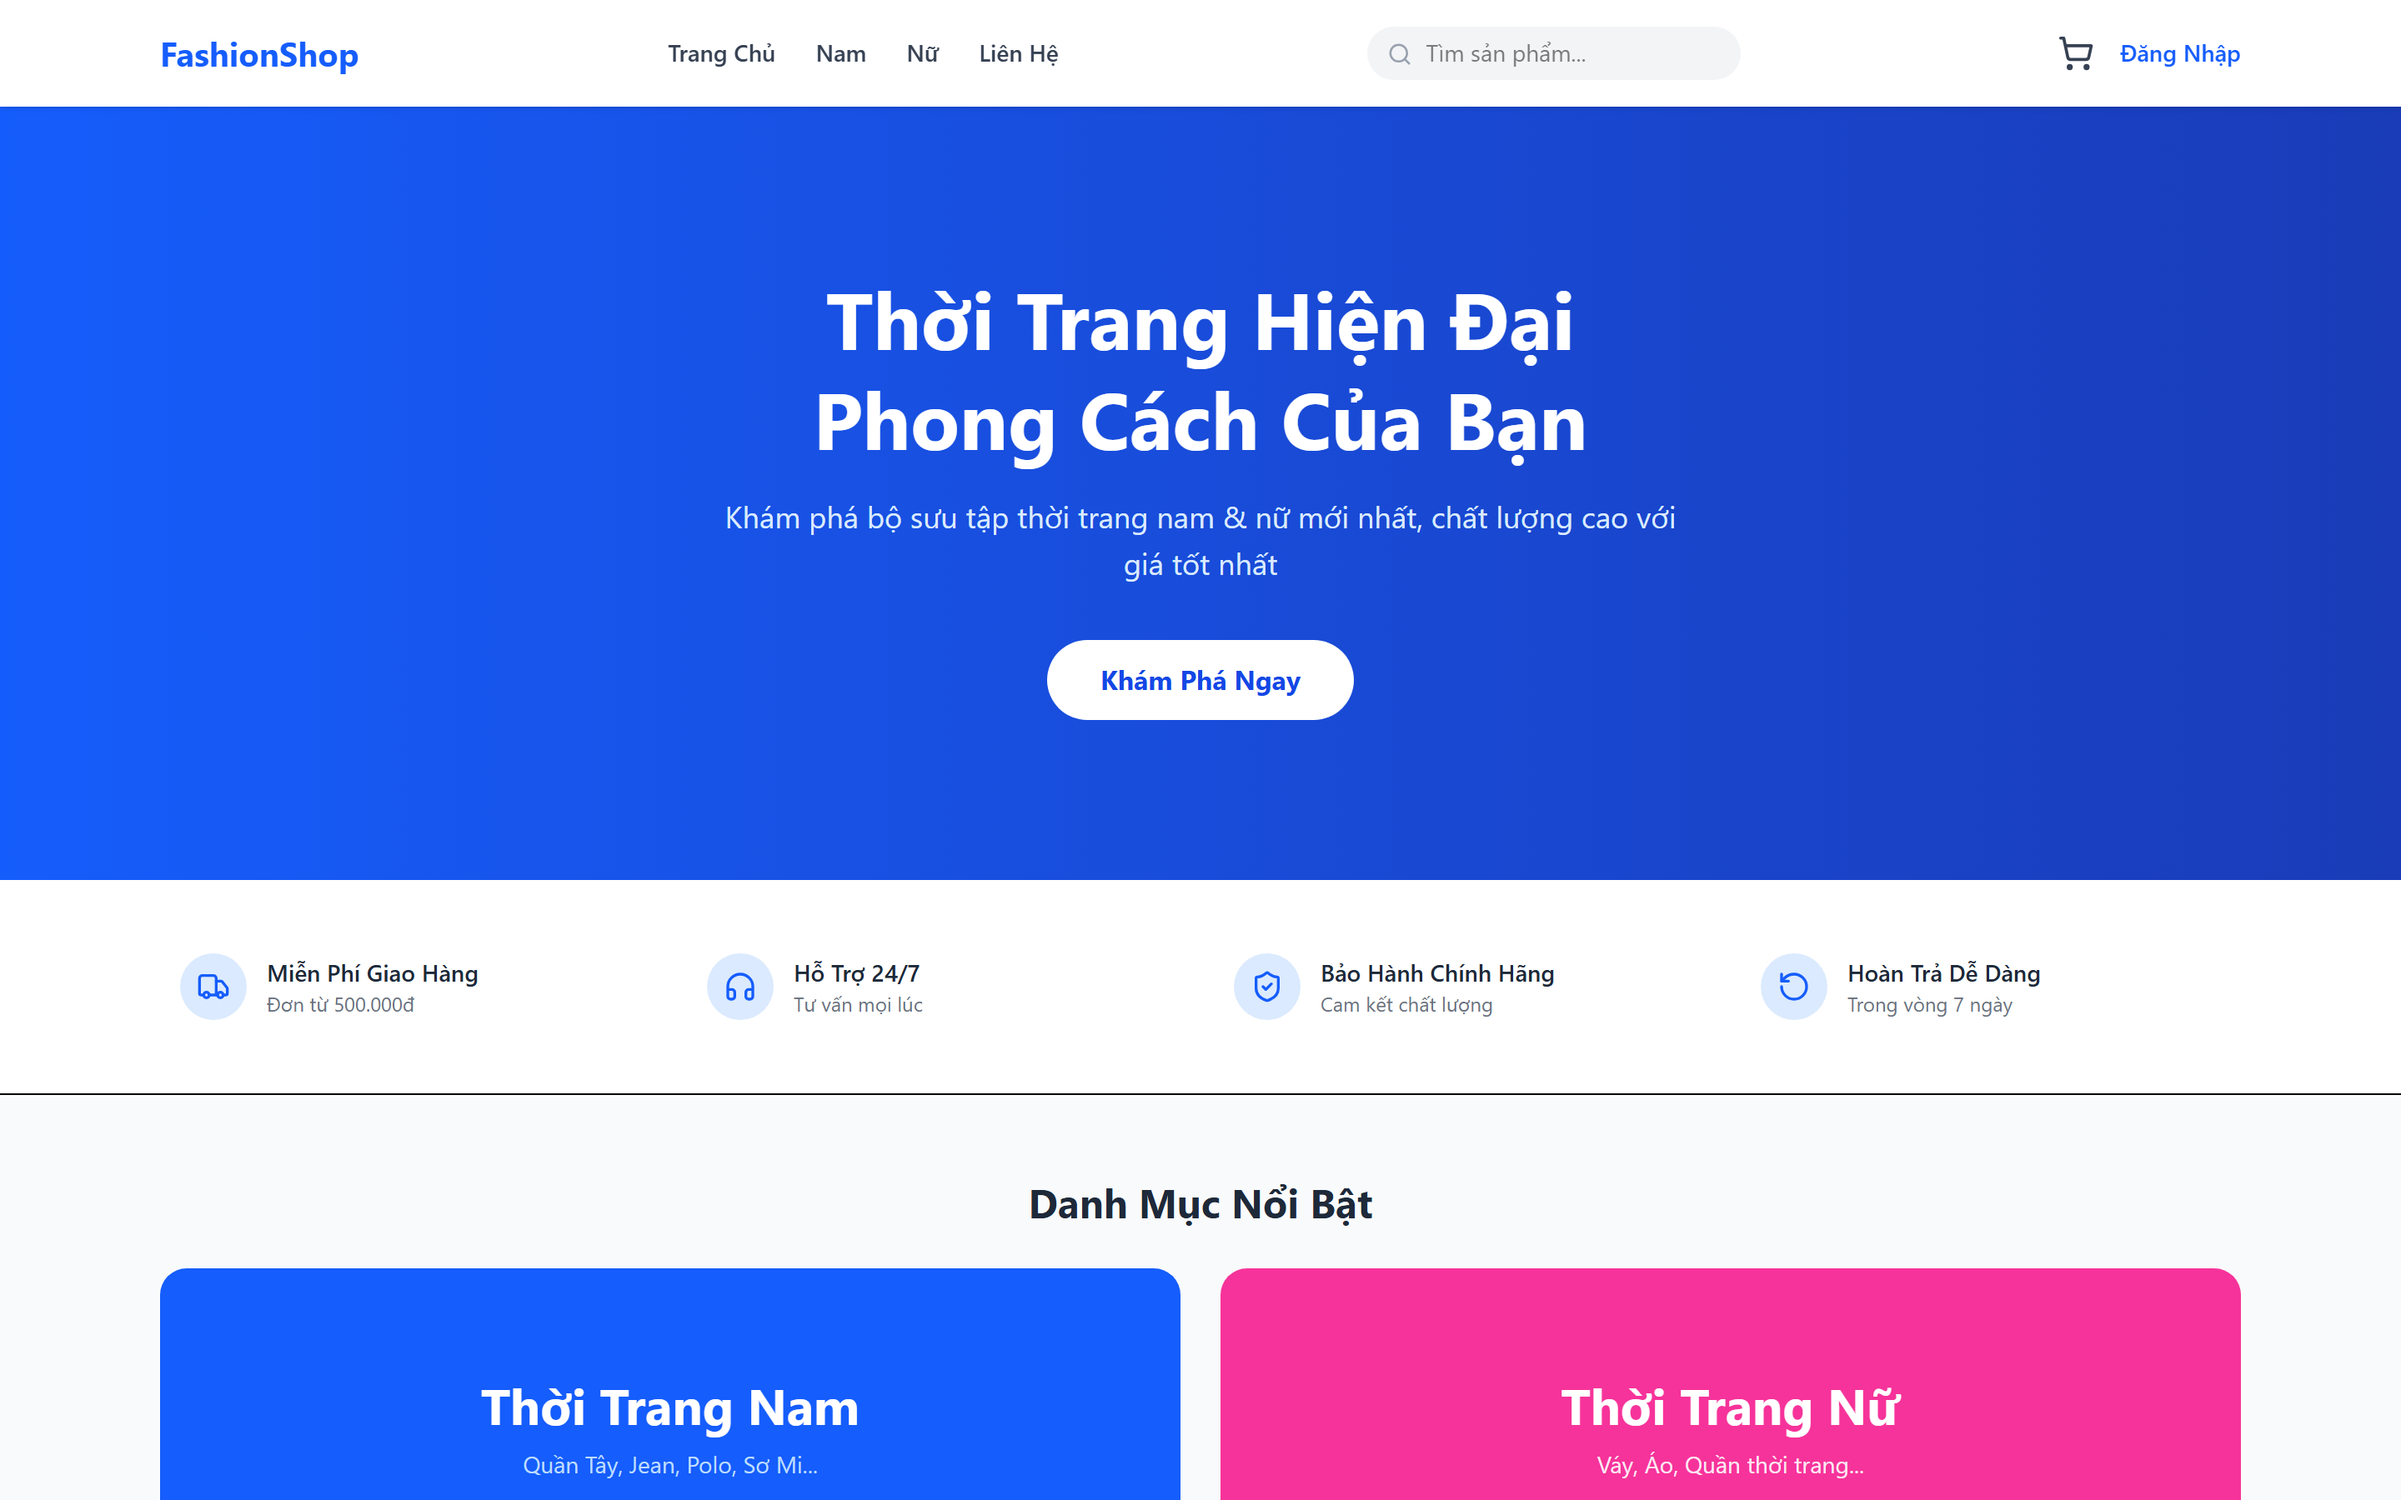
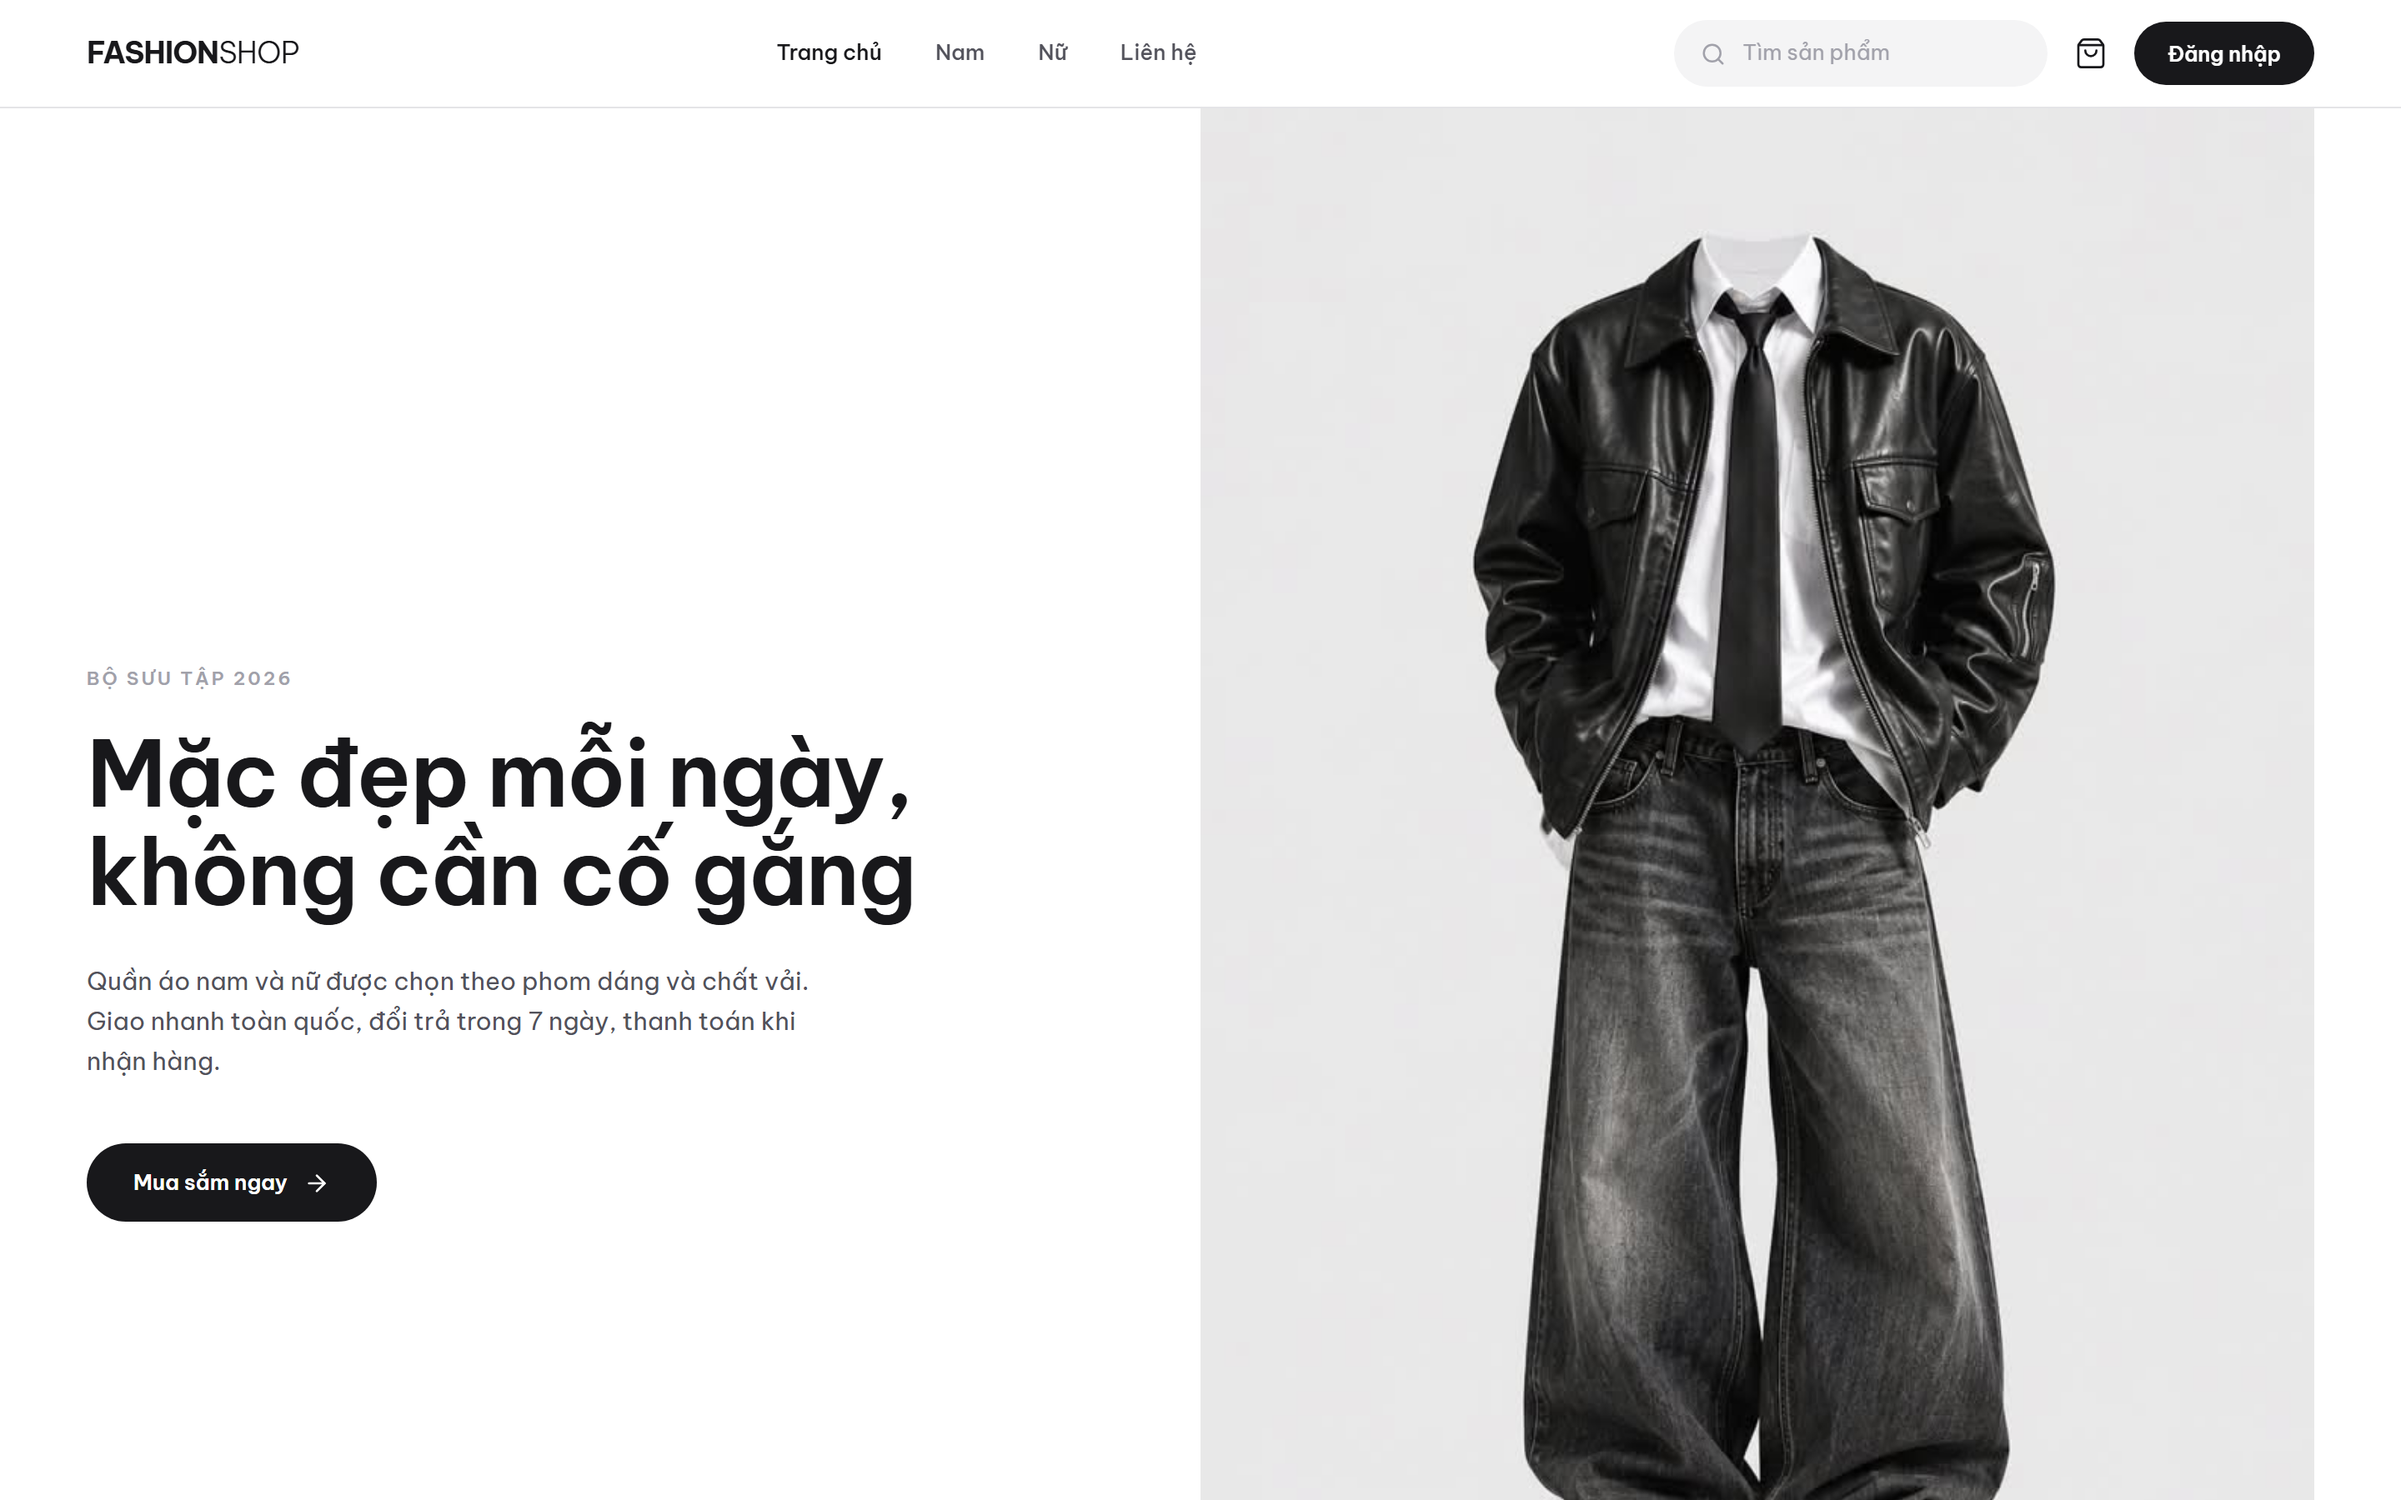
Refresh the README screenshots for the new storefront
The screenshots showed the old blue-and-white storefront, which no longer
resembles what the demo link opens.

Recapture all of them from the live deployment and add one for the home page
image screen. The admin dashboard shot now also shows revenue split by order
status. While here, correct the feature list: product uploads no longer carry
a 5MB cap, and the two new admin screens were missing.

diff --git a/README.md b/README.md
@@ -24,27 +24,32 @@ Hệ thống thương mại điện tử bán quần áo thời trang nam/nữ, 
 
 ### Website khách hàng
 
-| Trang chủ | Danh sách sản phẩm |
-|:---:|:---:|
-| <img src="docs/screenshots/01-trang-chu.png" width="100%" /> | <img src="docs/screenshots/02-danh-sach-san-pham.png" width="100%" /> |
-| Banner, danh mục nổi bật, tìm kiếm | Lọc theo tab, badge giảm giá, thêm vào giỏ |
-
 <p align="center">
-  <img src="docs/screenshots/03-chi-tiet-san-pham.png" width="85%" /><br>
-  <em>Chi tiết sản phẩm — chọn size, đánh giá của khách hàng</em>
+  <img src="docs/screenshots/01-trang-chu.png" width="100%" /><br>
+  <em>Trang chủ — ảnh đầu trang đặt trên nền vải dệt bằng WebGL</em>
 </p>
+
+| Danh sách sản phẩm | Chi tiết sản phẩm |
+|:---:|:---:|
+| <img src="docs/screenshots/02-danh-sach-san-pham.png" width="100%" /> | <img src="docs/screenshots/03-chi-tiet-san-pham.png" width="100%" /> |
+| Lọc theo tab, nhãn giảm giá, thêm nhanh vào giỏ | Chọn size, số lượng, đánh giá của khách |
 
 ### Trang quản trị
 
 <p align="center">
-  <img src="docs/screenshots/05-admin-dashboard.png" width="100%" /><br>
-  <em>Dashboard — doanh thu, số đơn, người dùng và danh sách đơn gần đây</em>
+  <img src="docs/screenshots/04-admin-dashboard.png" width="100%" /><br>
+  <em>Dashboard — doanh thu tách theo trạng thái đơn, đơn đã huỷ không tính vào doanh thu</em>
 </p>
 
 | Quản lý sản phẩm | Quản lý đơn hàng |
 |:---:|:---:|
-| <img src="docs/screenshots/06-admin-san-pham.png" width="100%" /> | <img src="docs/screenshots/07-admin-don-hang.png" width="100%" /> |
+| <img src="docs/screenshots/05-admin-san-pham.png" width="100%" /> | <img src="docs/screenshots/06-admin-don-hang.png" width="100%" /> |
 | Thêm, sửa, xoá sản phẩm kèm ảnh | Xem chi tiết và cập nhật trạng thái đơn |
+
+<p align="center">
+  <img src="docs/screenshots/07-admin-anh-trang-chu.png" width="100%" /><br>
+  <em>Ảnh trang chủ — tải ảnh rồi kéo để chọn phần hiển thị, hoặc chỉnh bằng thanh trượt</em>
+</p>
 
 ---
 
@@ -150,8 +155,12 @@ FashionShop gồm 3 ứng dụng độc lập giao tiếp qua REST API:
 
 ### Quản trị viên (Admin)
 
-- Dashboard thống kê (doanh thu, tổng đơn, tổng khách hàng)
-- Quản lý sản phẩm: CRUD đầy đủ + upload ảnh (MIME validate, max 5MB)
+- Dashboard thống kê: doanh thu từ đơn đã hoàn thành, doanh thu dự kiến từ đơn
+  chờ xử lý và đang giao, tổng đơn, tổng khách hàng. Đơn đã huỷ không tính vào
+  doanh thu, chỉ hiển thị dưới dạng ghi chú
+- Quản lý sản phẩm: CRUD đầy đủ + upload ảnh (jpg / png / webp)
+- Quản lý ảnh trang chủ: đặt ảnh cho phần mở đầu và hai ô bộ sưu tập, kéo trực
+  tiếp trên ảnh để chọn phần hiển thị hoặc chỉnh bằng thanh trượt
 - Quản lý đơn hàng: xem danh sách, chi tiết, cập nhật trạng thái
 - Quản lý người dùng: xem danh sách và chi tiết
 - Quản lý đánh giá: phản hồi hoặc xóa
